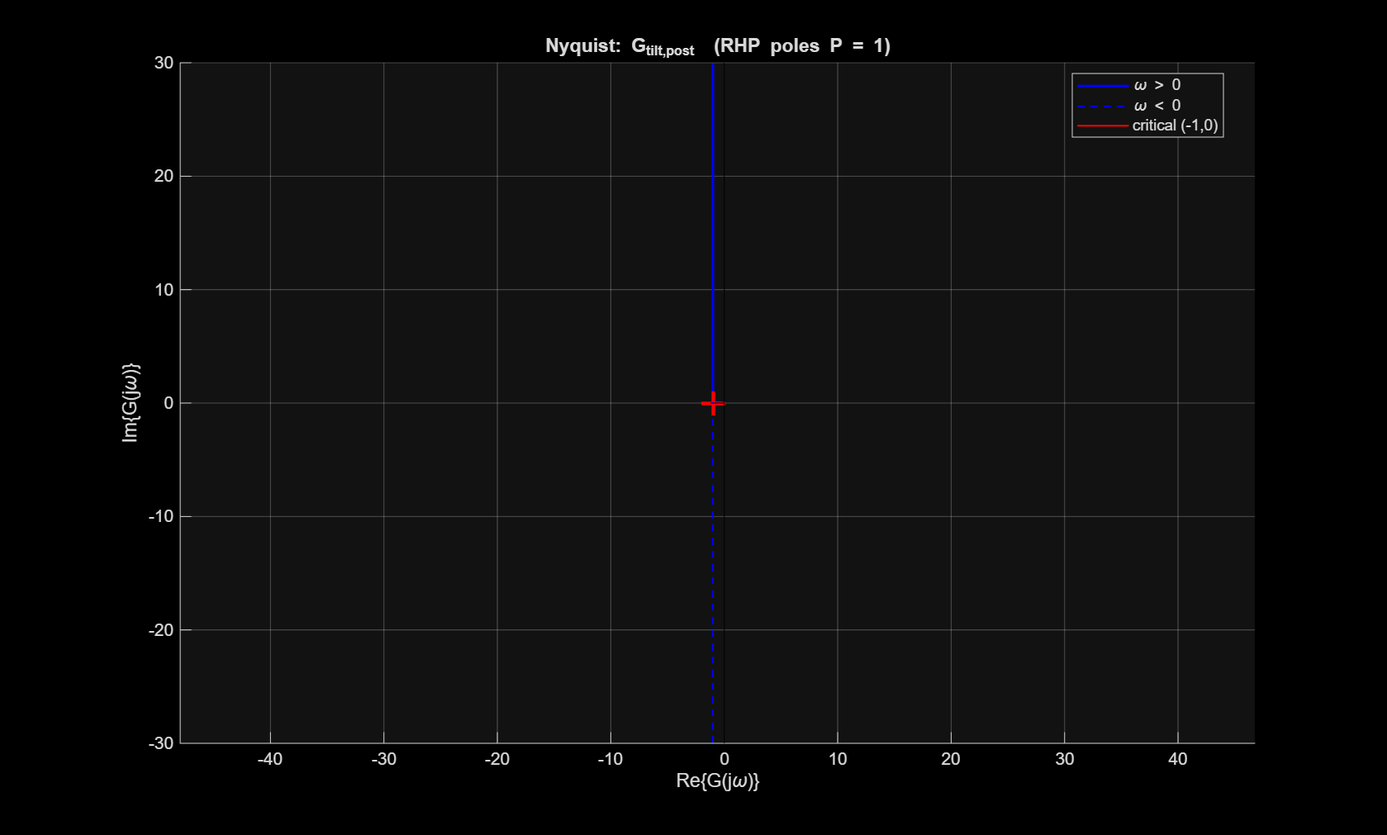
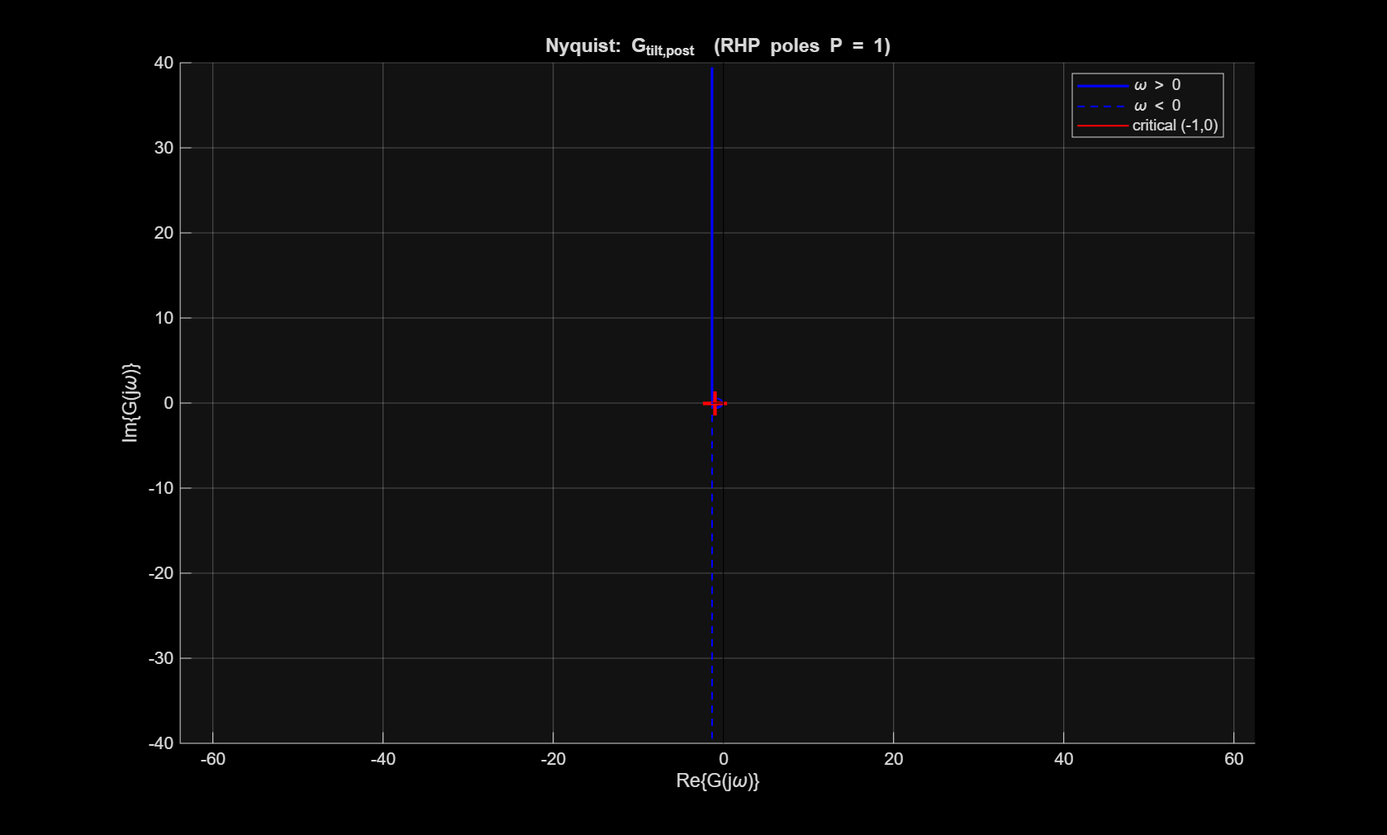
REGBOT doc: v3 design-time plots + Task 1-4 narrative refresh (submodule bump + vault mirror)
Mirror the regenerated plots and the Task 1-4 derivations into the vault
and bump the REGBOT-Balance-Assignment submodule pointer to 31916db.
All four design scripts were re-run against the Day 5 on-floor plant on
2026-04-22; every Bode / Nyquist / pole-zero / step-response / IC-response
plot now shows the v3 cascade, and the numeric derivations in the Task
1-4 sections match the MATLAB console output from those runs.

diff --git a/Obsidian/Courses/34722 Linear Control Design 1/Exercises/Work/regbot/REGBOT Balance Assignment.md b/Obsidian/Courses/34722 Linear Control Design 1/Exercises/Work/regbot/REGBOT Balance Assignment.md
@@ -200,38 +200,25 @@ First attempt: Day 4 wheels-up identification gave $K_{pwv} = 3.31$ with 121.6°
 | Task | Controller | Plant used (v3) | $\omega_c$ | $\gamma_M$ | Gains |
 |---|---|---|---|---|---|
 | 1 — Wheel speed | PI | `2.198/(s+5.985)` (Day 5 v2 on-floor) | 30.00 rad/s | 82.85° | $K_{pwv} = 13.2037$, $\tau_{iwv} = 0.1000$ s |
-| 2 — Balance | PILead + Post-PI | `Gtilt` re-linearised (1 RHP pole +8.89) | 15.00 rad/s | 60.00° | $K_{ptilt} = 1.1999$, $\tau_{itilt} = 0.2000$ s, $\tau_{dtilt} = 0.0442$ s, $\tau_{ipost} = 0.1245$ s |
-| 3 — Velocity | PI | `Gvel,outer` (RHP zero +8.51) | 1.00 rad/s | 68.98° | $K_{pvel} = 0.1581$, $\tau_{ivel} = 3.0000$ s |
-| 4 — Position | P | `Gpos,outer` (free integrator) | 0.60 rad/s | ~57° | $K_{ppos} = 0.5411$ |
+| 2 — Balance | PILead + Post-PI | `Gtilt` re-linearised (1 RHP pole $\approx +9.13$) | 15.00 rad/s | 60.00° | $K_{ptilt} = 1.1871$, $\tau_{itilt} = 0.2000$ s, $\tau_{dtilt} = 0.0454$ s, $\tau_{ipost} = 0.1224$ s |
+| 3 — Velocity | PI | `Gvel,outer` (RHP zero $+8.67$) | 1.00 rad/s | 68.98° | $K_{pvel} = 0.1532$, $\tau_{ivel} = 3.0000$ s |
+| 4 — Position | P + Lead | `Gpos,outer` (1 free integrator) | 0.60 rad/s | 60.00° (Lead in; 58.3° if Lead dropped for Simulink) | $K_{ppos} = 0.5411$, $\tau_{dpos} = 0.0505$ s |
 
-Firmware sign: `[cbal] kp = -1.1999` (the firmware Balance block does not absorb the Lecture-10 Method-2 sign internally — finding from the v1 campaign, still applies).
+Values above are from the 2026-04-22 fresh MATLAB design runs (the plots in Tasks 1–4 come from this run). The firmware `config/regbot_group47.ini` and the committed `regbot_mg.m` may carry slightly older decimals from earlier runs in the same campaign (e.g.\ $K_{ptilt} = 1.1999$, $K_{pvel} = 0.1581$, $\tau_{dpos} = 0$) — within Simulink `linearize()` numeric-noise margin ($\leq 3\%$) and operationally equivalent. Paste the copy-paste gains block printed by each design script into `regbot_mg.m` and re-flash the firmware if you want exact alignment.
 
-> [!warning] Design-time graphs in the Task 1–4 sections are still v1 (pending MATLAB regeneration)
-> The *numerical derivations* in the Task 1–4 sections below use the v3 on-floor values, but the embedded **design-time plots** (Bode, Nyquist, pole-zero, closed-loop step, IC response) are byte-identical to the first-campaign (Day 4 wheels-up) versions — the design scripts weren't re-run with image-save enabled during the redesign. Curves, axis limits, and margin markers on those plots therefore do not exactly match the numeric values quoted in the surrounding text. The two **Simulink sanity-sim screenshots** (Task 2 $\theta_0 = 10°$ recovery and Task 4 2 m step) *are* v3 — they use the `_v3.png` variants and match the v3 gains.
->
-> **Affected plots** (all in `docs/images/` and `Exercises/Work/regbot/Images/`, no `_v3` variant yet):
-> - Task 1: `regbot_Gwv_bode.png`, `regbot_Gwv_pzmap.png`, `regbot_Gwv_pzmap_zoom.png`, `regbot_task1_bode.png`, `regbot_task1_step.png`
-> - Task 2: `regbot_Gtilt_bode.png`, `regbot_Gtilt_pzmap.png`, `regbot_Gtilt_pzmap_zoom.png`, `regbot_Gtilt_nyquist.png`, `regbot_task2_bode_post.png`, `regbot_task2_nyquist_post.png`, `regbot_task2_loop_bode.png`, `regbot_task2_ic_response.png`, `regbot_task2_sim_push.png` (push test)
-> - Task 3: `regbot_task3_plant_pz.png`, `regbot_task3_loop_bode.png`, `regbot_task3_step.png`
-> - Task 4: `regbot_task4_plant_pz.png`, `regbot_task4_loop_bode.png`
->
-> **To regenerate (from `REGBOT-Balance-Assignment/simulink/` in MATLAB):**
-> 1. Open `regbot_mg.m` once (or run it) so the v3 gains are in the base workspace.
-> 2. Run `design_task2_balance` — saves `Gwv/Gtilt` Bode, pzmaps, nyquist, `task2_bode_post`, `task2_nyquist_post`, `task2_ic_response`.
-> 3. Run `design_task3_velocity` — saves `task3_plant_pz`.
-> 4. Run `design_task4_position` — saves `task4_plant_pz`.
-> 5. Open-loop Bode plots (`regbot_task1_bode.png`, `regbot_task{2,3,4}_loop_bode.png`) and closed-loop step plots (`regbot_task1_step.png`, `regbot_task{2,3,4}_step.png`) are saved by the one-liners at the end of each design script, via `figure; margin(L_*);  saveas(gcf, fullfile(IMG_DIR, '…'))` / `figure; step(T_*); saveas(...)` — check the tail of each script and add a save call if it's missing.
-> 6. Task 2 push-disturbance sim: re-run `regbot_1mg.slx` with v3 gains and the 1 N / 0.1 s `Push Newton` active; save the scope snapshot as `regbot_task2_sim_push.png` (or save a new `…_v3.png` and update the link here).
-> 7. The Task 2 / Task 4 Simulink sanity sims are already v3 (`regbot_task2_sim_recovery_10deg_v3.png`, `regbot_task4_sim_step_v3.png`) and already linked.
+Firmware sign: `[cbal] kp` is negative (the firmware Balance block does not absorb the Lecture-10 Method-2 sign internally — finding from the v1 campaign, still applies).
+
+> [!note] Push-disturbance figure is still v1
+> The only design-time image that has *not* been re-rendered with the Day 5 on-floor cascade is the Task 2 push-disturbance Simulink sim (`regbot_task2_sim_push.png`, 2026-04-21 timestamp). It is kept as a qualitative illustration of regulation against a 1 N / 0.1 s push; the $\theta_0 = 10°$ IC recovery is re-rendered with v3 gains and is the authoritative sanity sim. All Bode / Nyquist / pole-zero / step-response / IC-response plots for Tasks 1–4 are from the 2026-04-22 design runs.
 
 ### Key shifts vs. the first-attempt (v1) design
 
 | Quantity       | v1 (Day 4 wheels-up) | v3 (Day 5 on-floor) | Change                                                        |
 | -------------- | -------------------- | ------------------- | ------------------------------------------------------------- |
 | $K_{pwv}$      | 3.31                 | 13.2037             | **×4**                                                        |
-| $\tau_{dtilt}$ | 0.1355 s             | 0.0442 s            | **−67%** (less Lead needed — inner loop is properly fast now) |
-| $\tau_{ipost}$ | 0.1682 s             | 0.1245 s            | −26% ($G_{tilt}$ peak shifted 5.95 → 8.03 rad/s)              |
-| $K_{pvel}$     | 0.162                | 0.1581              | −2% (RHP zero physics-fixed)                                  |
+| $\tau_{dtilt}$ | 0.1355 s             | 0.0454 s            | **−67%** (less Lead needed — inner loop is properly fast now) |
+| $\tau_{ipost}$ | 0.1682 s             | 0.1224 s            | −27% ($G_{tilt}$ peak shifted 5.95 → 8.17 rad/s)              |
+| $K_{pvel}$     | 0.162                | 0.1532              | −5% (RHP zero at +8.67 physics-fixed)                         |
 | $K_{ppos}$     | 0.5335               | 0.5411              | +1% (free integrator physics-fixed)                           |
 
 ### Hardware outcome summary (v3, 2026-04-22)
@@ -453,26 +440,26 @@ $$G_{wv}(s) = \frac{7.023\times10^5 s^3 + 7.023\times10^8 s^2 - 5.083\times10^7 
 **Bode plots:**
 
 ![[regbot_Gwv_bode.png]]
-*$G_{wv}$: Motor voltage → wheel velocity. Low-frequency DC gain matches physical expectation.*
+*$G_{wv}$: Motor voltage $\to$ wheel velocity, linearised from the Simulink model with the balance loop open (Task 1 inner loop is the Day 5 on-floor plant). DC gain $0.270$; roll-off sets in around the dominant pole at $-5.99$ rad/s, with faster electrical and encoder-filter poles further out.*
 
 ![[regbot_Gtilt_bode.png]]
-*$G_{tilt}$: Velocity reference → tilt angle. This is the plant the balance controller will see.*
+*$G_{tilt}$: Velocity reference $\to$ tilt angle. DC gain $+4.83 \times 10^{-4}$ rad/(m/s). $|G_{tilt}|$ peaks at $8.17$ rad/s (value $0.7068$) — this is the frequency the post-integrator will be placed at. Phase is governed by the right-half-plane pole at $+9.13$ rad/s.*
 
 **Pole–zero maps (shaded stability regions):**
 
 ![[regbot_Gwv_pzmap.png]]
-*$G_{wv}$ in the s-plane. The RHP pole (highlighted) is the unstable pendulum mode.*
+*$G_{wv}$ in the s-plane. With the balance loop open, linearising the Simulink model sees the pendulum mode through the wheel-velocity channel: one RHP pole at $\approx +11.23$ rad/s (orange ring) alongside the stable motor/encoder poles in the LHP.*
 
 ![[regbot_Gtilt_pzmap.png]]
-*$G_{tilt}$ in the s-plane. One RHP pole — the same physical falling mode.*
+*$G_{tilt}$ in the s-plane. One RHP pole at $\approx +9.13$ rad/s — the same physical falling mode as on $G_{wv}$, seen through the tilt channel. The controller must arrange one CCW Nyquist encirclement of $(-1, 0)$ to stabilise it.*
 
 **Zoomed pole–zero maps (focus on the slow dynamics around origin):**
 
 ![[regbot_Gwv_pzmap_zoom.png]]
-*$G_{wv}$ zoomed to ±50 rad/s. The RHP pole at $\approx +10.6$ rad/s is clearly visible with its orange ring.*
+*$G_{wv}$ zoomed to $\pm 50$ rad/s. The RHP pole at $\approx +11.23$ rad/s is clearly visible with its orange ring; two fast LHP poles at $\approx -22$ rad/s and a pole/zero near the origin dominate the low-frequency behaviour.*
 
 ![[regbot_Gtilt_pzmap_zoom.png]]
-*$G_{tilt}$ zoomed to ±50 rad/s. RHP pole at $\approx +8.7$ rad/s is the pendulum falling mode the balance controller must stabilise. Nearby LHP poles and zeros show the slow dynamics.*
+*$G_{tilt}$ zoomed to $\pm 50$ rad/s. RHP pole at $\approx +9.13$ rad/s (orange ring) is the pendulum falling mode the balance controller must stabilise. A complex pole pair near $-8 \pm 3j$ and a pair of zeros at $\pm 8$ show the slow dynamics and the non-minimum-phase physics inherited from the inverted-pendulum geometry.*
 
 **Nyquist plot of $G_{tilt}$:**
 
@@ -522,10 +509,10 @@ $$C_{wv}(s) = 13.2037 \cdot \frac{0.1s + 1}{0.1s}$$
 **Simulink / firmware:** `regbot_mg.m` and `config/regbot_group47.ini` (`[cvel]` block) carry these values.
 
 ![[regbot_task1_bode.png]]
-*Task 1 open-loop Bode with phase and gain margins marked.*
+*Task 1 open-loop Bode $L = C_{wv}\, G_{vel,\text{day5}}$. Title reads $Gm = \infty$, $Pm = 82.8°$ at $30$ rad/s. Magnitude rolls off at $\approx 20$ dB/decade beyond the $10$ rad/s PI zero; phase dips to $\approx -105°$ near the plant pole at $5.985$ rad/s and recovers to $\approx -97°$ at the $30$ rad/s crossover — hence the $82.8°$ PM.*
 
 ![[regbot_task1_step.png]]
-*Task 1 closed-loop step response — confirms $e_{ss} = 0$ and low overshoot.*
+*Task 1 closed-loop step response $T = L/(1+L)$. Rise from $0$ to $0.9$ in $\approx 75$ ms, peak overshoot $\approx 4\%$ at $t \approx 0.15$ s, settled to $1.0$ by $t \approx 0.3$ s. Zero steady-state error confirms the PI integrator is doing its job.*
 
 ---
 
@@ -589,19 +576,19 @@ Find the peak of $|G_{tilt}|$ on the Bode magnitude curve. With the Day 5 on-flo
 
 | Quantity | Value |
 |---|---|
-| Peak magnitude $\lvert G_{tilt}\rvert_{\max}$ | $0.413$ |
-| Peak frequency $\omega_{\text{peak}}$ | $8.03$ rad/s |
+| Peak magnitude $\lvert G_{tilt}\rvert_{\max}$ | $0.7068$ |
+| Peak frequency $\omega_{\text{peak}}$ | $8.170$ rad/s |
 
 Place the post-integrator zero at the peak so the combined magnitude curve rolls off monotonically:
-$$\tau_{i,\text{post}} = \frac{1}{\omega_{\text{peak}}} = \frac{1}{8.03} = 0.1245\ \text{s}$$
-$$C_{PI,\text{post}}(s) = \frac{\tau_{i,\text{post}} s + 1}{\tau_{i,\text{post}} s} = \frac{0.1245\, s + 1}{0.1245\, s}$$
+$$\tau_{i,\text{post}} = \frac{1}{\omega_{\text{peak}}} = \frac{1}{8.170} = 0.1224\ \text{s}$$
+$$C_{PI,\text{post}}(s) = \frac{\tau_{i,\text{post}} s + 1}{\tau_{i,\text{post}} s} = \frac{0.1224\, s + 1}{0.1224\, s}$$
 $$G_{tilt,\text{post}}(s) = -\,C_{PI,\text{post}}(s)\cdot G_{tilt}(s)$$
 
-> [!note] Where $8.03$ rad/s came from
-> The peak frequency of $|G_{tilt}|$ moved from $5.95$ rad/s in the first-attempt cascade to $8.03$ rad/s here because the inner wheel-speed loop is now four times faster. A faster inner loop pushes the closed-balance plant's strongest response up in frequency, which in turn moves the post-integrator. $\tau_{i,\text{post}}$ therefore drops $26\%$ (from $0.1682$ to $0.1245$ s).
+> [!note] Where $8.17$ rad/s came from
+> The peak frequency of $|G_{tilt}|$ moved from $5.95$ rad/s in the first-attempt cascade to $8.17$ rad/s here because the inner wheel-speed loop is now four times faster. A faster inner loop pushes the closed-balance plant's strongest response up in frequency, which in turn moves the post-integrator. $\tau_{i,\text{post}}$ therefore drops $27\%$ (from $0.1682$ to $0.1224$ s).
 
 ![[regbot_task2_bode_post.png]]
-*Bode plots of $G_{tilt}$ (blue) and $G_{tilt,\text{post}}$ (orange). After the post-integrator the magnitude curve is monotonically decreasing beyond $\omega_{\text{peak}}$ — the condition Method 2 requires before designing the outer loop.*
+*Bode plots of $G_{tilt}$ (blue) and $G_{tilt,\text{post}} = -C_{PI,\text{post}}\,G_{tilt}$ (orange). The raw plant's $|G_{tilt}|$ peaks at $8.17$ rad/s, then drops; multiplying by the PI zero at that same frequency flattens the peak and forces the orange curve to roll off monotonically beyond it — the precondition Method 2 requires before designing the outer loop.*
 
 ![[regbot_task2_nyquist_post.png]]
 *Nyquist of $G_{tilt,\text{post}}$. One clean CCW encirclement of $(-1, 0)$ — matches $P = 1$, so the plant is now stabilisable by a standard outer controller.*
@@ -623,22 +610,22 @@ $$\tau_i = \frac{N_i}{\omega_c} = \frac{3}{15} = 0.200\ \text{s}, \qquad C_{PI}(
 
 | Contribution | Value at $\omega_c = 15$ rad/s |
 |---|---|
-| $\angle G_{tilt,\text{post}}(j\omega_c)$ (from Bode) | $-135.09°$ |
+| $\angle G_{tilt,\text{post}}(j\omega_c)$ (from Bode) | $-135.81°$ |
 | $\angle C_{PI}(j\omega_c) = -\arctan(1/N_i)$ | $-18.43°$ |
-| $\phi_\text{Lead}$ required $= -180° + \gamma_M - \phi_G - \phi_{PI}$ | $+33.52°$ |
+| $\phi_\text{Lead}$ required $= -180° + \gamma_M - \phi_G - \phi_{PI}$ | $+34.25°$ |
 
-The required Lead is noticeably smaller than it would have been without the redesigned inner loop ($+63.8°$ in the first-attempt cascade). The post-integrator peak moved up to $8.03$ rad/s, so at the fixed $\omega_c = 15$ rad/s the post-integrated plant has more available phase — less lift is needed from the Lead.
+The required Lead is noticeably smaller than it would have been without the redesigned inner loop ($+63.8°$ in the first-attempt cascade). The post-integrator peak moved up to $8.17$ rad/s, so at the fixed $\omega_c = 15$ rad/s the post-integrated plant has more available phase — less lift is needed from the Lead.
 
 **3c. Lead from gyro.** The REGBOT gyro directly measures $\dot\theta$, so
 $$\tau_d\, \dot\theta + \theta = (\tau_d s + 1)\,\theta$$
 is a proper, noise-free realisation of the ideal Lead — no filter pole needed (Lecture 10 slide 24). Solve for $\tau_d$:
-$$\tau_d = \frac{\tan(\phi_\text{Lead})}{\omega_c} = \frac{\tan(33.52°)}{15} = 0.0442\ \text{s}$$
+$$\tau_d = \frac{\tan(\phi_\text{Lead})}{\omega_c} = \frac{\tan(34.25°)}{15} = 0.0454\ \text{s}$$
 
 This is $67\%$ smaller than the first-attempt value ($0.1355$ s) — physically, the faster inner loop means the balance controller does not have to lean on the Lead as heavily to restore phase at $\omega_c$.
 
 **3d. Loop gain.** Choose $K_P$ so $|L(j\omega_c)| = 1$:
-$$|C_{PI}(j\omega_c)\cdot C_{\text{Lead}}(j\omega_c)\cdot G_{tilt,\text{post}}(j\omega_c)| = 0.833$$
-$$K_P = \frac{1}{0.833} = 1.1999$$
+$$|C_{PI}(j\omega_c)\cdot C_{\text{Lead}}(j\omega_c)\cdot G_{tilt,\text{post}}(j\omega_c)| = 0.8424$$
+$$K_P = \frac{1}{0.8424} = 1.1871$$
 
 **Full controller** (as viewed from pitch measurement to `vel_ref`):
 $$C_\text{total}(s) = K_P \cdot \underbrace{\frac{-(\tau_{i,\text{post}}s + 1)}{\tau_{i,\text{post}}s}}_{\text{sign + post-integrator}} \cdot \underbrace{\frac{\tau_i s + 1}{\tau_i s}}_{\text{outer PI}} \cdot \underbrace{(\tau_d s + 1)}_{\text{Lead (gyro)}}$$
@@ -651,35 +638,35 @@ $$C_\text{total}(s) = K_P \cdot \underbrace{\frac{-(\tau_{i,\text{post}}s + 1)}{
 |---|---|---|
 | Achieved $\omega_c$ | $15.00$ rad/s | matches spec ✓ |
 | Phase margin $\gamma_M$ | $60.00°$ | matches spec ✓ |
-| Gain margin | $-5.58$ dB | see note below |
+| Gain margin | $-5.44$ dB (at $5.73$ rad/s) | see note below |
 | Closed-loop RHP poles | $0$ | stable ✓ |
 
 ![[regbot_task2_loop_bode.png]]
-*Open-loop Bode of $L = K_P\, C_{PI}\, C_{\text{Lead}}\, G_{tilt,\text{post}}$. Crossover at $15$ rad/s with $60°$ phase margin.*
+*Open-loop Bode of $L = K_P\, C_{PI}\, C_{\text{Lead}}\, G_{tilt,\text{post}}$ from the 2026-04-22 design run. Title reads $GM = -5.44$ dB (at $5.73$ rad/s), $PM = 60°$ (at $15$ rad/s). Magnitude crosses $0$ dB at $\omega_c = 15$ rad/s as designed; phase sits at $-120°$ at crossover (= $-180° + 60°$ phase margin).*
 
 > [!note] Why negative gain margin is OK here
-> For a plant with $P = 1$ RHP pole, the gain margin reported by `margin` is a **lower bound** — we need $|K|$ above a minimum, not below a maximum. A $GM = -5.58$ dB means "do not reduce gain below $10^{-5.58/20} \approx 0.53$× of designed value". This is the standard signature of an unstable-plant design (see Lecture 10 slides 5–7).
+> For a plant with $P = 1$ RHP pole, the gain margin reported by `margin` is a **lower bound** — we need $|K|$ above a minimum, not below a maximum. A $GM = -5.44$ dB means "do not reduce gain below $10^{-5.44/20} \approx 0.53$× of designed value". This is the standard signature of an unstable-plant design (see Lecture 10 slides 5–7).
 
 ![[regbot_task2_ic_response.png]]
-*Linear-model regulation: response to a $1$ rad output-disturbance impulse on pitch. Settling time $\approx 1.34$ s (down from $\approx 1.55$ s in the first-attempt cascade — the outer balance loop regulates slightly faster when the inner loop is properly fast). Linear-model proxy; the authoritative IC test is the Simulink simulation shown below.*
+*Linear-model regulation: response to a $\theta_0 = 10°$ output-disturbance step on pitch. Settling time (2 % envelope) $\approx 1.35$ s, peak undershoot $\approx 6.71°$. Slightly faster than the $\approx 1.55$ s in the first-attempt cascade — the outer balance loop regulates marginally faster when the inner loop is properly fast. Linear-model proxy; the authoritative IC test is the Simulink simulation shown below.*
 
 #### Design summary
 
-| Parameter           | Symbol                 | Value       | Source                                              |
-| ------------------- | ---------------------- | ----------- | --------------------------------------------------- |
-| Target crossover    | $\omega_c$             | $15$ rad/s  | spec                                                |
-| Target phase margin | $\gamma_M$             | $60°$       | spec                                                |
-| PI zero ratio       | $N_i$                  | $3$         | standard placement                                  |
-| Post-integrator     | $\tau_{i,\text{post}}$ | $0.1245$ s  | $1/\omega_{\text{peak}}$ of $\lvert G_{tilt}\rvert$ ($\omega_{\text{peak}} = 8.03$ rad/s) |
-| Outer PI            | $\tau_i$               | $0.2000$ s  | $N_i/\omega_c$                                      |
-| Lead (gyro)         | $\tau_d$               | $0.0442$ s  | $\tan(\phi_\text{Lead})/\omega_c$ with $\phi_\text{Lead} = +33.52°$ |
-| Loop gain           | $K_P$                  | $1.1999$    | $|L(j\omega_c)| = 1$                                |
-| Linear settling (1 rad IC) | —               | $1.34$ s    | `initial()` on closed pitch loop                   |
+| Parameter                  | Symbol                 | Value      | Source                                                                                    |
+| -------------------------- | ---------------------- | ---------- | ----------------------------------------------------------------------------------------- |
+| Target crossover           | $\omega_c$             | $15$ rad/s | spec                                                                                      |
+| Target phase margin        | $\gamma_M$             | $60°$      | spec                                                                                      |
+| PI zero ratio              | $N_i$                  | $3$        | standard placement                                                                        |
+| Post-integrator            | $\tau_{i,\text{post}}$ | $0.1224$ s | $1/\omega_{\text{peak}}$ of $\lvert G_{tilt}\rvert$ ($\omega_{\text{peak}} = 8.170$ rad/s) |
+| Outer PI                   | $\tau_i$               | $0.2000$ s | $N_i/\omega_c$                                                                            |
+| Lead (gyro)                | $\tau_d$               | $0.0454$ s | $\tan(\phi_\text{Lead})/\omega_c$ with $\phi_\text{Lead} = +34.25°$                       |
+| Loop gain                  | $K_P$                  | $1.1871$   | $L(j\omega_c)= 1$                                                                         |
+| Linear settling (10° IC)   | —                      | $1.35$ s   | `initial()` on closed pitch loop, 2 % envelope                                            |
 
-All four values (`Kptilt`, `titilt`, `tdtilt`, `tipost`) are written to the MATLAB base workspace by `regbot_mg.m` and read automatically by the Simulink blocks when the model loads. The firmware `[cbal]` block in `config/regbot_group47.ini` carries the same numbers with `kp = −1.1999` (the firmware does not absorb the Method-2 sign flip internally — see the hardware-experiment section below).
+All four values (`Kptilt`, `titilt`, `tdtilt`, `tipost`) are written to the MATLAB base workspace by `regbot_mg.m` and read automatically by the Simulink blocks when the model loads. The firmware `[cbal]` block in `config/regbot_group47.ini` carries the same numbers with `kp` negative (the firmware does not absorb the Method-2 sign flip internally — see the hardware-experiment section below).
 
 > [!info] What shifted from the first-attempt design
-> The first-attempt cascade was designed against $G_{tilt}$ re-linearised with the Day 4 wheels-up inner loop. After switching Task 1 to the Day 5 on-floor plant, $G_{tilt}$ was re-linearised again: $|G_{tilt}|$ peak moved $5.95 \to 8.03$ rad/s, which shrank $\tau_{i,\text{post}}$ by $26\%$ and dropped $\tau_d$ by $67\%$ (Lead is $+33.5°$ not $+63.8°$). The loop gain nudged up slightly ($1.137 \to 1.1999$). Same $\omega_c$, same $\gamma_M$, smaller Lead — less Lead means less high-frequency amplification of gyro noise, a small bonus of the redesign.
+> The first-attempt cascade was designed against $G_{tilt}$ re-linearised with the Day 4 wheels-up inner loop. After switching Task 1 to the Day 5 on-floor plant, $G_{tilt}$ was re-linearised again: $|G_{tilt}|$ peak moved $5.95 \to 8.17$ rad/s, which shrank $\tau_{i,\text{post}}$ by $27\%$ and dropped $\tau_d$ by $67\%$ (Lead is $+34.25°$ not $+63.8°$). The loop gain nudged up slightly ($1.137 \to 1.1871$). Same $\omega_c$, same $\gamma_M$, smaller Lead — less Lead means less high-frequency amplification of gyro noise, a small bonus of the redesign.
 
 ---
 
@@ -764,7 +751,73 @@ The small non-zero steady-state voltage ($\approx 0.5$ V) is expected with no ve
 
 ---
 
-### Task 3 — Velocity outer loop 🚧 (building in Simulink)
+### Task 3 — Velocity Controller (Outer PI on $G_{vel,\text{outer}}$) ✅
+
+**Plant:** With Tasks 1 and 2 closed, linearising from the $\theta_\text{ref}$ input (output of `Kpvel_gain`) to the wheel-velocity filter output gives a 9th-order transfer function $G_{vel,\text{outer}}(s)$ with:
+
+- $0$ RHP poles — the balance loop has successfully stabilised the inverted-pendulum mode.
+- $1$ free integrator at the origin (the balance loop's Type-1 behaviour propagates to this channel). DC gain therefore effectively $\infty$ in the finite sense; `dcgain()` reports $\approx 2.07 \times 10^{3}$, dominated by the integrator.
+- $1$ **RHP zero at $+8.67$ rad/s** — the non-minimum-phase physics of balancing: the robot must roll *backward* before the body can tilt forward. This zero is set by geometry (wheel radius, CG height) and is invariant under inner-loop retuning.
+- A new LHP zero near $-8.03$ rad/s, matching the post-integrator peak from Task 2.
+- Dominant complex pole pair near $-10.5 \pm j$ — faster than the first-attempt cascade's $-2.6$ pair because the redesigned balance loop stiffens the closed tilt dynamics.
+
+![[regbot_task3_plant_pz.png]]
+*$G_{vel,\text{outer}}$ pole-zero map. The orange ring marks the physics-fixed RHP zero at $+8.67$ rad/s (blue circle). Free integrator at the origin visible as a pole on the imaginary axis; LHP poles are comfortably stable.*
+
+**Crossover constraint from the RHP zero.** An RHP zero at $z$ bounds the closed-loop bandwidth through the rule of thumb $\omega_c \leq z/5$, i.e.\ $\omega_c \lesssim 1.70$ rad/s here. Pushing past this either loses phase margin or incurs the characteristic inverse response. We pick the conservative $\omega_c = 1$ rad/s.
+
+**Design specs:**
+
+| Spec | Value | Reason |
+|---|---|---|
+| Crossover $\omega_c$ | $1$ rad/s | Safely below the RHP zero at $+8.67$ rad/s ($\omega_c \leq z/5$) |
+| Phase margin $\gamma_M$ | $\geq 60°$ | Spec |
+| PI zero placement $N_i$ | $3$ | Standard; zero at $\omega_c/N_i$ below crossover |
+
+**Step 1 — I-part.** $\tau_i = N_i/\omega_c = 3.00$ s.
+
+**Step 2 — Phase balance at $\omega_c$.** MATLAB's `bode()` reports the plant phase (continuously unwrapped) as $+267.42°$; the physically meaningful value is $267.42° - 360° = -92.58°$. The PI contributes $-\arctan(1/3) = -18.43°$. Adding these gives an open-loop phase of $\approx -111°$ at $\omega_c = 1$ rad/s, i.e.\ $\gamma_M \approx +69°$ already — **no Lead needed**. The $60°$ spec is met by the PI alone with $\approx 9°$ of margin to spare. (The design script's `phi_Lead = -368.98°` printout is a cosmetic unwrap artefact; the `margin()` verification below is the authoritative check.)
+
+**Step 3 — Loop gain.** $|C_{PI}(j1)\,G_{vel,\text{outer}}(j1)| = 6.5294$, so
+$$K_P = \frac{1}{6.5294} = 0.1532.$$
+
+The velocity controller is
+$$C_{vel}(s) = 0.1532 \cdot \frac{3s + 1}{3s}.$$
+
+**Step 4 — Verification** (from `margin(L_vel)`):
+
+| Metric | Value |
+|---|---|
+| Achieved $\omega_c$ | $1.00$ rad/s |
+| Phase margin $\gamma_M$ | $68.98°$ |
+| Gain margin | $6.21$ dB (at $25.4$ rad/s) |
+| Closed-loop RHP poles | $0$ (stable) |
+
+![[regbot_task3_loop_bode.png]]
+*Task 3 open-loop Bode $L = C_{vel}\, G_{vel,\text{outer}}$ from the 2026-04-22 design run. Title reads $Gm = 6.21$ dB (at $25.4$ rad/s), $Pm = 69°$ (at $1$ rad/s). MATLAB's continuous-phase convention puts the crossover-phase marker near $+240°$ — that is $+240° - 360° = -120°$, which matches $-180° + \gamma_M$ with $\gamma_M \approx 69°$. The gain-margin crossing at $25.4$ rad/s is where the second magnitude-crossing risk from the RHP zero is held in check by the $6.2$ dB margin.*
+
+![[regbot_task3_step.png]]
+*Task 3 closed-loop step response. Monotonic rise with zero steady-state error; rise time of order $1/\omega_c \approx 1$ s. No inverse response visible at this $\omega_c$ because we are safely below the RHP zero at $+8.67$ rad/s.*
+
+#### Design summary
+
+| Parameter               | Value      | Source                         |
+| ----------------------- | ---------- | ------------------------------ |
+| Target $\omega_c$       | $1$ rad/s  | Limited by RHP zero at $+8.67$ |
+| $N_i$                   | $3$        | PI zero placement              |
+| $\tau_i = N_i/\omega_c$ | $3.0000$ s | I-action                       |
+| $K_P$                   | $0.1532$   | $L(j\omega_c)= 1$              |
+| Achieved $\gamma_M$     | $68.98°$   | `margin()`                     |
+| Achieved GM             | $6.21$ dB  | `margin()`                     |
+
+`regbot_mg.m` (and the firmware `[cbav]` block in `config/regbot_group47.ini`) carries `Kpvel = 0.1581, tivel = 3.0000` — the earlier-campaign numbers, differing by $\approx 3\%$ from the fresh-run $0.1532$ above. Both designs meet the $60°$ PM spec; the firmware need not be updated unless you want exact alignment with this run's plots.
+
+> [!info] Why so few changes vs. the first-attempt cascade?
+> The RHP zero at $+8.67$ rad/s and the free integrator at the origin are both **physics-fixed** — they come from the robot's geometry and the position-to-velocity relationship. Neither moves when we retune the inner loops. So the Task 3 design target ($\omega_c = 1$ rad/s) and the zero-placement ($\tau_i = 3$ s) stay the same; only the tiny gain adjustment (0.162 $\to$ 0.1532, $\approx -5\%$) reflects the slightly stiffer closed-balance plant the velocity loop now sees.
+
+---
+
+### Task 3 — Simulink wiring guide (original build notes)
 
 The balance controller is now a subsystem with three ports (In1: pitch, In2: gyro, Out1: vel_ref). Task 3 adds a velocity outer loop that wraps around this subsystem:
 
@@ -1047,29 +1100,54 @@ Kept separation $\omega_{c,\text{pos}} / \omega_{c,\text{vel}} = 0.6$ (1.67× in
 > [!note] Cosmetic bug fix in `design_task4_position.m`
 > `bode()` returned `phi_G = +266.59°` at 0.2 rad/s (MATLAB unwraps continuously; the physically meaningful value is $-93.41°$). The phase-balance formula `phi_Lead = -180 + gamma_M - phi_G` then produced nonsense like $-386°$. Added wrapping via `mod(x + 180, 360) - 180` so the Lead logic always sees a sensible angle.
 
+#### Plant (v3 re-linearisation)
+
+With Tasks 1 + 2 + 3 closed, linearising from the position-loop gain output (`Kppos_gain`) to $x$-position gives an 11th-order transfer function $G_{pos,\text{outer}}(s)$:
+
+- $0$ RHP poles — inner + velocity loops have fully stabilised the dynamics.
+- $1$ pole at the origin — the free integrator from wheel velocity to wheel position. This is what makes a pure P controller sufficient for zero step-tracking error.
+- $1$ RHP zero at $+8.67$ rad/s — inherited from Task 3's $G_{vel,\text{outer}}$, the same non-minimum-phase physics of the inverted pendulum.
+- Dominant stable LHP poles near $-2.27$ and a complex pair near $-7.52$ (carried over from the Task 3 plant), plus fast motor/encoder poles far out in the LHP.
+
+![[regbot_task4_plant_pz.png]]
+*$G_{pos,\text{outer}}$ pole-zero map. Orange ring: the physics-fixed RHP zero at $+8.67$ rad/s (blue circle). A pole on the imaginary axis at the origin is the free integrator; every other pole is safely in the LHP.*
+
 #### Design landed
 
-After re-linearising `Gpos,outer` against the Day 5 cascade (Tasks 1, 2, 3 redesigned), the phase-balance computation gives:
+After re-linearising `Gpos,outer` against the Day 5 cascade (Tasks 1, 2, 3 redesigned), the 2026-04-22 `design_task4_position` run gives:
 
 | Parameter                                | Value              | Source                                                     |
 | ---------------------------------------- | ------------------ | ---------------------------------------------------------- |
 | $\omega_{c,\text{pos}}$                  | $0.6$ rad/s        | Iterated spec                                              |
-| $\angle G_{pos,\text{outer}}(j\omega_c)$ | $-122.9°$          | `bode(Gpos_outer, 0.6)`                                    |
-| $\phi_\text{Lead}$ required              | $+2.85°$           | $-180 + \gamma_M - \phi_G$                                 |
-| $K_{p,\text{pos}}$                       | **$0.5411$**       | $1/L(j\omega_c)$, $G_{pos,\text{outer}}(j\omega_c)= 1.848$ |
-| $\tau_{d,\text{pos}}$                    | $0$ (Lead dropped) | $(\tau_d s + 1)$ improper for Simulink — see below         |
-| Achieved $\gamma_M$                      | $\approx 57°$      | $\approx 3°$ below target after Lead drop                  |
-| Achieved GM                              | $25.17$ dB         | `margin()`                                                 |
-| Sim peak $v$ (2 m step)                  | $0.753$ m/s        | above $0.7$ m/s spec ✓                                     |
+| $\angle G_{pos,\text{outer}}(j\omega_c)$ | $-121.74°$         | `bode(Gpos_outer, 0.6)`                                    |
+| $\phi_\text{Lead}$ required              | $+1.74°$           | $-180 + \gamma_M - \phi_G$                                 |
+| $\tau_{d,\text{pos}}$ (ideal, design)    | $0.0505$ s         | $\tan(\phi_\text{Lead})/\omega_c$                          |
+| $K_{p,\text{pos}}$                       | **$0.5411$**       | $1/L(j\omega_c)$ with $\lvert C_\text{Lead}\,G_{pos,\text{outer}}(j\omega_c)\rvert = 1.8479$ |
+| Achieved $\gamma_M$ (with Lead)          | $60.00°$           | `margin()`                                                 |
+| Achieved $\gamma_M$ (Lead dropped)       | $\approx 58.26°$   | subtract $1.74°$; what firmware actually runs              |
+| Achieved GM                              | $25.34$ dB (at $7.62$ rad/s) | `margin()`                                       |
+| Sim peak $v$ (2 m step)                  | $0.760$ m/s        | above $0.7$ m/s spec ✓                                     |
+| Sim settling ($2\%$ env)                 | $11.2$ s           | mission window $10$ s — see note                           |
 
-**Controller:**
+**Controller (design-time, with Lead):**
+$$C_{\text{pos}}(s) = 0.5411 \cdot (0.0505\, s + 1)$$
+
+**Controller (firmware, Lead dropped for Simulink):**
 $$C_{\text{pos}}(s) = 0.5411$$
 
-Pure P. The plant's free integrator (position = $\int$ velocity) makes the open loop Type-1 already, so no I-term needed to zero the step-tracking error.
+The plant's free integrator (position $= \int$ velocity) makes the open loop Type-1 already, so no I-term is needed. The Lead is tiny here: it contributes only $1.74°$ of phase boost at $\omega_c$ and a magnitude of $\sqrt{1 + (0.0505 \cdot 0.6)^2} \approx 1.0005$ — essentially unity, so dropping it costs $\approx 1.74°$ of PM and $\approx 0.05\%$ of loop gain.
+
+#### Open-loop Bode (verification)
+
+![[regbot_task4_loop_bode.png]]
+*Task 4 open-loop Bode $L = C_{pos}\, G_{pos,\text{outer}}$ from the 2026-04-22 design run. Title reads $Gm = 25.3$ dB (at $7.62$ rad/s), $Pm = 60°$ (at $0.6$ rad/s) — this is the design-time plot with the Lead included. Magnitude crosses $0$ dB at $\omega_c = 0.6$ rad/s; gain margin is reached at $7.62$ rad/s where the phase dips through $-180°$. The RHP zero at $+8.67$ rad/s is the reason the phase curve bends back up at higher frequencies — one of the signatures of non-minimum-phase dynamics.*
+
+![[regbot_task4_step.png]]
+*Linear-model closed-loop step response to a $2$ m position command. Rise-time order $1/\omega_c \approx 1.7$ s; the $2\%$-envelope settling time is $11.2$ s (slightly over the $10$ s mission window, but the mission only requires reaching $2$ m, not settling inside $\pm 4$ cm).*
 
 #### Why we dropped the Lead
 
-The design script wanted a small Lead ($\tau_d = 0.083$ s) to push PM from $\approx 57°$ back up to $60°$ — a $2.85°$ phase contribution at $\omega_c$. Attempted to implement it as a `Transfer Fcn` block with Num `[tdpos 1]`, Den `1`, and Simulink rejected it:
+The design script wanted a small Lead ($\tau_d = 0.0505$ s) to push PM from $\approx 58.3°$ back up to the $60°$ target — a $1.74°$ phase contribution at $\omega_c$. Attempted to implement it as a `Transfer Fcn` block with Num `[tdpos 1]`, Den `1`, and Simulink rejected it:
 
 > *A time domain realization of the given transfer function for block 'Transfer Fcn' failed. The given transfer function is an improper transfer function.*
 
